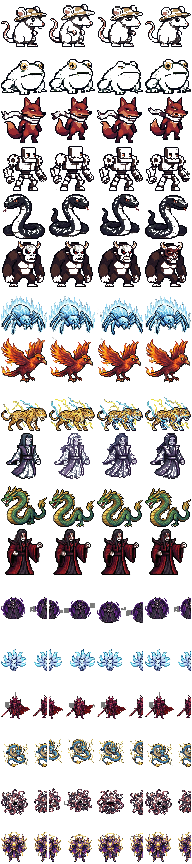
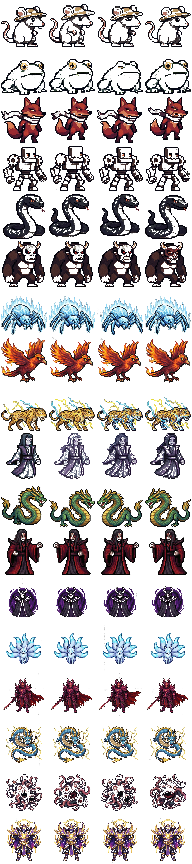
fix: 修复化神+大乘期怪物精灵图 — 区域检测替代等分切割
问题根因：monsters_sheet_3原始图是5列布局（4帧动画+1列文字标签），
但切割脚本按4等分切(512px/格)，导致精灵帧被切碎为碎片。

修复方案（slice_sprites.py v4）：
- 新增 find_sprite_regions() 函数：通过像素不透明度的x轴投影
  自动检测每行中宽度>100px的精灵区域
- 新增 process_sheet_regions() 函数：用区域检测替代等分切割
- Sheet 3 改用区域检测模式，精确定位每帧精灵位置
- 不再需要 remove_text_labels()（区域检测已天然过滤文字）

Sheet 1/2 保持原有等分切割（它们不含文字标签列）

Changed region(s): [[0.0, 0.5625, 1.0, 1.0], [0.0, 0.2188, 0.25, 0.2812]]

diff --git a/tools/slice_sprites.py b/tools/slice_sprites.py
@@ -1,12 +1,14 @@
 #!/usr/bin/env python3
 """
-slice_sprites.py v3 — 鼠鼠修仙2 Sprite Sheet 切割工具
+slice_sprites.py v4 — 鼠鼠修仙2 Sprite Sheet 切割工具
 
 改进点：
 - 全局背景色检测（不仅靠角落，用整图亮度直方图的两个峰值）
 - 自适应容差（基于两种背景色之间的距离）
 - 文字标签检测和过滤
 - 抗锯齿半透明边缘处理
+- v4: 新增区域检测模式——对含文字标签的图集(如sheet_3)自动定位精灵区域，
+      不再依赖等分切割，彻底解决精灵碎片化问题
 """
 
 import os
@@ -182,6 +184,117 @@ def fit_to_frame(rgba_arr, frame_w, frame_h, padding=1):
     return canvas
 
 
+def find_sprite_regions(row_arr, dark_color, light_color, tolerance, min_width=100):
+    """
+    在一行图像中检测宽度>min_width的精灵区域。
+    用于处理含文字标签的图集（如 monsters_sheet_3），
+    这些图集无法用简单的等分切割来提取精灵帧。
+    
+    返回: [(x_start, x_end), ...] 列表
+    """
+    ch, cw = row_arr.shape[:2]
+    rpix = row_arr[:, :, :3].astype(float)
+    dist_d = np.sqrt(np.sum((rpix - dark_color) ** 2, axis=2))
+    dist_l = np.sqrt(np.sum((rpix - light_color) ** 2, axis=2))
+    min_dist = np.minimum(dist_d, dist_l)
+    opaque = min_dist > tolerance * 1.5
+    x_profile = np.sum(opaque, axis=0)
+    
+    regions = []
+    in_region = False
+    region_start = 0
+    for x in range(cw):
+        if x_profile[x] > 0:
+            if not in_region:
+                region_start = x
+                in_region = True
+        else:
+            if in_region:
+                width = x - region_start
+                if width >= min_width:
+                    regions.append((region_start, x - 1))
+                in_region = False
+    if in_region:
+        width = cw - region_start
+        if width >= min_width:
+            regions.append((region_start, cw - 1))
+    return regions
+
+
+def process_sheet_regions(input_file, output_file, rows, target_cols=4,
+                          frame_w=48, frame_h=48, min_region_width=100):
+    """
+    区域检测模式切割。
+    适用于含文字标签的图集（精灵帧数不等于列数的情况）。
+    
+    策略：对每行单独检测精灵区域（宽度>min_region_width），
+    取前 target_cols 帧作为动画帧。
+    """
+    print(f"\n{'='*60}")
+    print(f"📋 {os.path.basename(input_file)} [REGION MODE]")
+    print(f"   Rows: {rows}, Target cols: {target_cols}, Frame: {frame_w}×{frame_h}")
+    
+    img = Image.open(input_file).convert('RGB')
+    arr = np.array(img)
+    src_h, src_w = arr.shape[:2]
+    print(f"   Source: {src_w}×{src_h}")
+    
+    dark_bg, light_bg = detect_bg_global(arr)
+    print(f"   BG colors: dark=({dark_bg[0]:.0f},{dark_bg[1]:.0f},{dark_bg[2]:.0f}), "
+          f"light=({light_bg[0]:.0f},{light_bg[1]:.0f},{light_bg[2]:.0f})")
+    
+    color_dist = np.linalg.norm(dark_bg - light_bg)
+    tol = max(20, min(50, color_dist * 0.35))
+    print(f"   Color distance: {color_dist:.1f}, Tolerance: {tol:.1f}")
+    
+    cell_h = src_h // rows
+    sprites = []
+    
+    for r in range(rows):
+        y1, y2 = r * cell_h, (r + 1) * cell_h
+        row = arr[y1:y2]
+        
+        regions = find_sprite_regions(row, dark_bg, light_bg, tol, min_region_width)
+        print(f"   Row {r}: found {len(regions)} sprite regions (need {target_cols})")
+        
+        for c in range(target_cols):
+            if c < len(regions):
+                xs, xe = regions[c]
+            else:
+                # 不足target_cols帧，复制最后一帧
+                xs, xe = regions[min(c, len(regions) - 1)]
+            
+            # 添加5px padding以确保精灵边缘完整
+            xs = max(0, xs - 5)
+            xe = min(src_w - 1, xe + 5)
+            cell = row[:, xs:xe + 1]
+            
+            # 去背景（不需要remove_text_labels，因为区域检测已精确定位）
+            rgba = remove_bg(cell, dark_bg, light_bg, tolerance=tol)
+            cropped = tight_crop(rgba)
+            frame = fit_to_frame(cropped, frame_w, frame_h)
+            sprites.append(frame)
+            
+            content_size = f"{cropped.shape[1]}×{cropped.shape[0]}" if cropped is not None else "EMPTY"
+            print(f"   [{r},{c}] region=[{xs},{xe}] {content_size} → {frame_w}×{frame_h}")
+    
+    # 组装
+    sheet_w = target_cols * frame_w
+    sheet_h = rows * frame_h
+    sheet = Image.new('RGBA', (sheet_w, sheet_h), (0, 0, 0, 0))
+    
+    for idx, sprite in enumerate(sprites):
+        r, c = idx // target_cols, idx % target_cols
+        sheet.paste(sprite, (c * frame_w, r * frame_h), sprite)
+    
+    os.makedirs(os.path.dirname(output_file), exist_ok=True)
+    sheet.save(output_file, 'PNG', optimize=True)
+    size_kb = os.path.getsize(output_file) / 1024
+    print(f"   ✅ Output: {sheet_w}×{sheet_h} ({size_kb:.1f} KB)")
+    
+    return sheet
+
+
 def process_sheet(input_file, output_file, rows, cols, frame_w=48, frame_h=48,
                   tolerance_override=None, skip_top_px=0):
     """处理一张原始 AI 生成图"""
@@ -282,10 +395,11 @@ def detect_title_bar_height(arr, max_scan=300):
 
 def main():
     print("=" * 60)
-    print("🎮 鼠鼠修仙2 Sprite Sheet Processor v3")
+    print("🎮 鼠鼠修仙2 Sprite Sheet Processor v4")
     print("=" * 60)
     
     # --- 怪物 (3 × 6行×4列 → 18行×4列) ---
+    # Sheet 1 & 2: 标准4等分切割（炼气/筑基/金丹/元婴）
     m1 = process_sheet(
         os.path.join(ART_DIR, 'monsters_sheet_1_01.png'),
         os.path.join(OUT_DIR, '_m1.png'),
@@ -296,10 +410,11 @@ def main():
         os.path.join(OUT_DIR, '_m2.png'),
         rows=6, cols=4, frame_w=48, frame_h=48
     )
-    m3 = process_sheet(
+    # Sheet 3: 区域检测模式（化神/大乘 — 含文字标签列）
+    m3 = process_sheet_regions(
         os.path.join(ART_DIR, 'monsters_sheet_3_01.png'),
         os.path.join(OUT_DIR, '_m3.png'),
-        rows=6, cols=4, frame_w=48, frame_h=48
+        rows=6, target_cols=4, frame_w=48, frame_h=48
     )
     
     print(f"\n{'='*60}")
